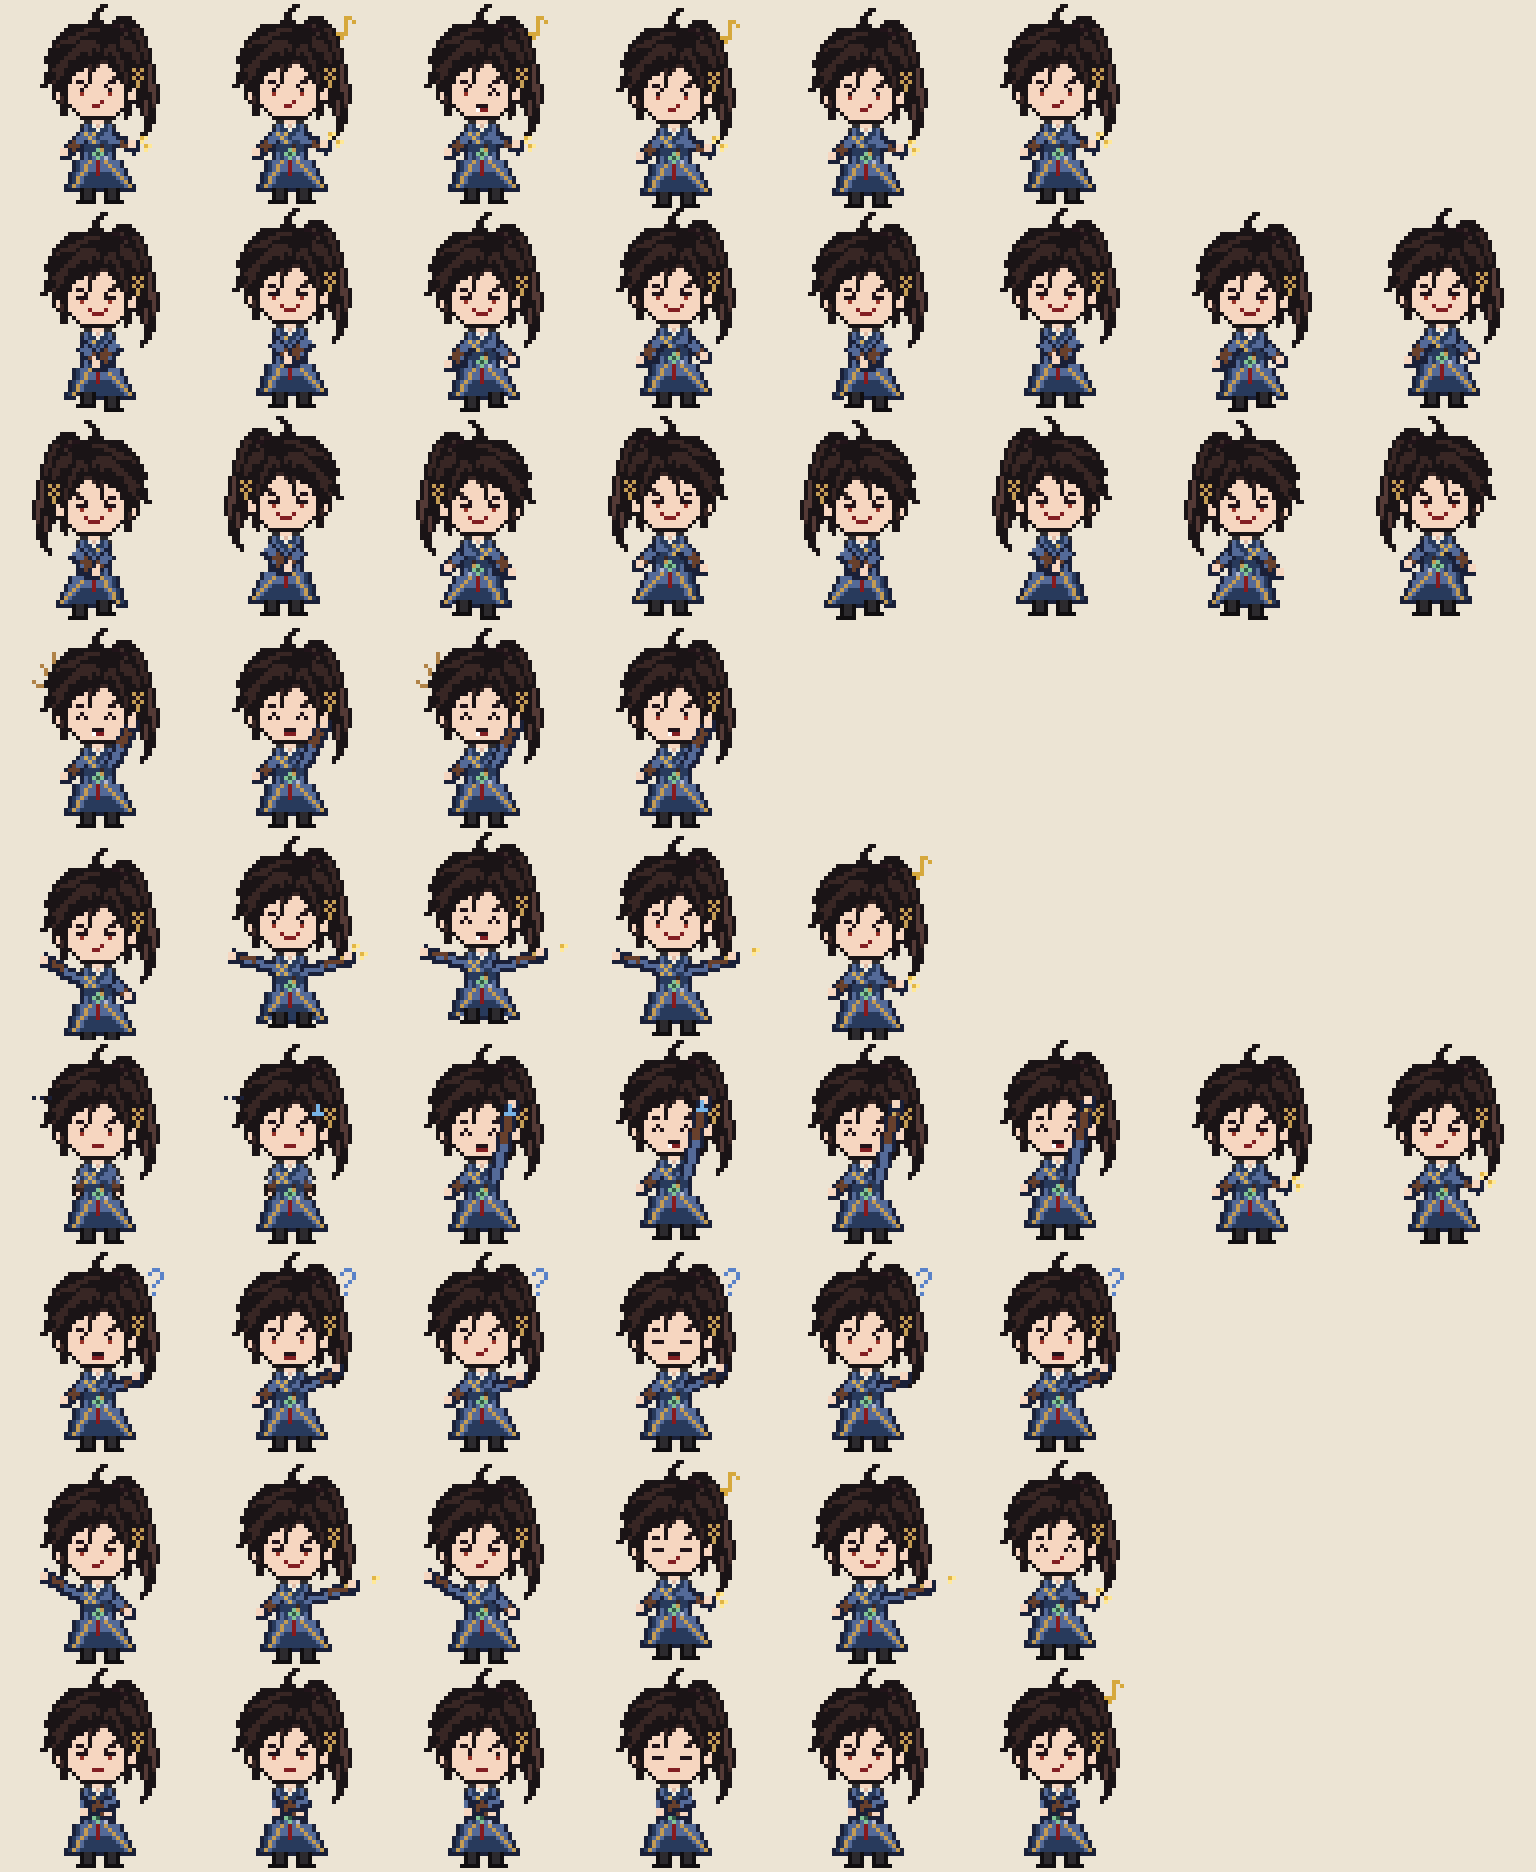
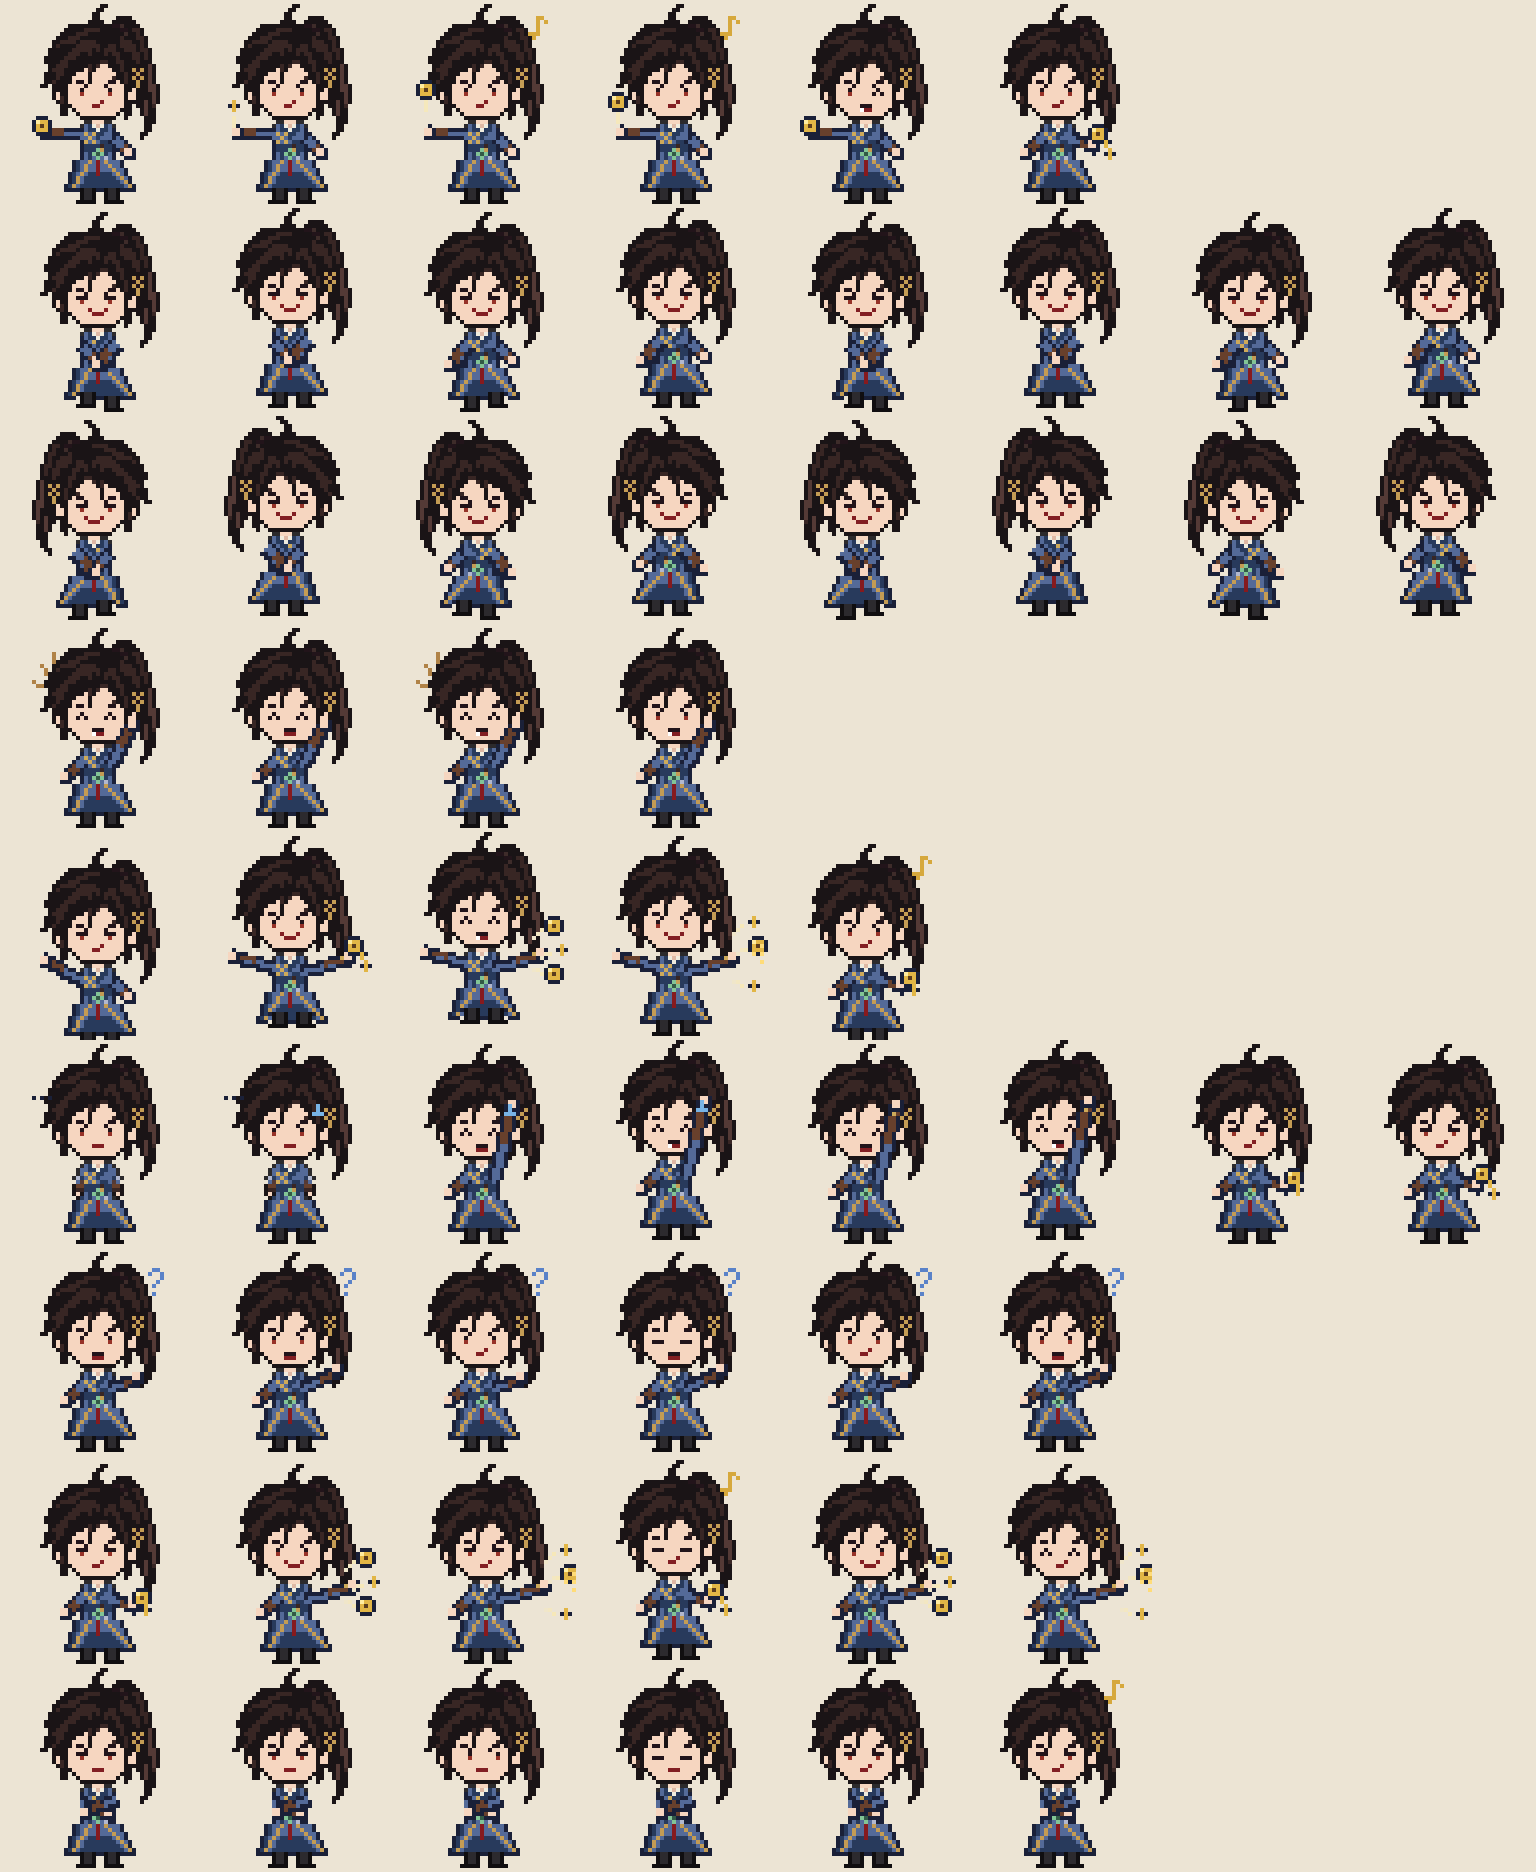
大師兄：金錢鏢畫成方孔金錢，加上彈錢、扇形散射與連發擲鏢
Claude-Session: https://claude.ai/code/session_014Ug96dnPv181rpAqSNBU9C

diff --git a/index.html b/index.html
@@ -180,10 +180,10 @@ cd mortal-pets && ./install.sh codex</pre>
 </main>
 
 <!-- ?v= 是版本號：更新角色資料時一起改，避免瀏覽器拿快取裡的舊檔配新網頁 -->
-<script src="claude-plugin/mortal-buddy/scripts/characters.js?v=0.3.10"></script>
-<script src="claude-plugin/mortal-buddy/scripts/locales/ja.js?v=0.3.10"></script>
-<script src="claude-plugin/mortal-buddy/scripts/locales/ko.js?v=0.3.10"></script>
-<script src="claude-plugin/mortal-buddy/scripts/locales/en.js?v=0.3.10"></script>
+<script src="claude-plugin/mortal-buddy/scripts/characters.js?v=0.3.11"></script>
+<script src="claude-plugin/mortal-buddy/scripts/locales/ja.js?v=0.3.11"></script>
+<script src="claude-plugin/mortal-buddy/scripts/locales/ko.js?v=0.3.11"></script>
+<script src="claude-plugin/mortal-buddy/scripts/locales/en.js?v=0.3.11"></script>
 <script>
   const BASE = window.MORTAL_CHARS;
   const { UPCOMING } = BASE;
@@ -435,7 +435,7 @@ cd mortal-pets && ./install.sh codex</pre>
     document.querySelectorAll("#tabs .tab").forEach((t) => t.setAttribute("aria-selected", t.dataset.id === id));
     const outfits = c.outfits || [{ id, name: "" }];
     const petId = outfits.some((o) => o.id === store.outfit[id]) ? store.outfit[id] : outfits[0].id;
-    sprite.style.backgroundImage = `url(codex/pets/${petId}/spritesheet.webp?v=0.3.10)`;
+    sprite.style.backgroundImage = `url(codex/pets/${petId}/spritesheet.webp?v=0.3.11)`;
     const ob = $("outfits");
     ob.innerHTML = "";
     ob.hidden = outfits.length < 2;

diff --git a/tools/build_sprites.py b/tools/build_sprites.py
@@ -1180,17 +1180,49 @@ def draw_bitmap_frame(c, pose):
     elif mouth == "o":
         put(24, 26, eye); put(24, 27, m)
 
-    # 道具：金錢鏢
+    # 道具：金錢鏢（方孔金錢）
+    gold, shine, hole = (226, 182, 70, 255), (255, 236, 160, 255), (90, 60, 30, 255)
+
+    def coin(cx, cy, edge=False):
+        if edge:  # 轉到側面時只剩一條細線
+            for y in (cy - 1, cy, cy + 1):
+                put(cx, y, gold)
+            put(cx - 1, cy, O); put(cx + 1, cy, O)
+            return
+        for x, y in ((cx - 1, cy - 2), (cx, cy - 2), (cx + 1, cy - 2), (cx - 1, cy + 2), (cx, cy + 2), (cx + 1, cy + 2),
+                     (cx - 2, cy - 1), (cx - 2, cy), (cx - 2, cy + 1), (cx + 2, cy - 1), (cx + 2, cy), (cx + 2, cy + 1)):
+            put(x, y, O)
+        for x in (cx - 1, cx, cx + 1):
+            for y in (cy - 1, cy, cy + 1):
+                put(x, y, gold)
+        put(cx, cy, hole); put(cx - 1, cy - 1, shine)
+
     prop = pose["prop"]
     if prop and prop[0] == "coins":
-        gold, shine = (226, 182, 70, 255), (255, 232, 150, 255)
         x, y = hands[1]
-        if prop[1] == "throw":
-            spots = ((5, -2), (9, -4), (13, -1))
-        else:
-            spots = ((2, -2), (3, 0)) if prop[1] == 0 else ((3, -1), (1, -3))
-        for ox, oy in spots:
-            put(x + ox, y + oy, gold); put(x + ox + 1, y + oy, shine); put(x + ox, y + oy + 1, shine)
+        if prop[1] == "throw":  # 擲出：三枚金錢鏢帶著殘影飛出去
+            k = prop[2] if len(prop) > 2 else 0
+            # 手邊空間不多，三枚排成扇形往上、前、下散開，後面拖著殘影
+            for i, (ox, oy) in enumerate(((3, -7), (5, -1), (3, 5))):
+                cx = min(45, x + ox + 2 * k)
+                cy = y + oy + (-2 * k if oy < 0 else 2 * k if oy > 0 else 0)
+                for t in range(1, 4):
+                    put(cx - 2 - t, cy - (oy // 4) * t // 2, (255, 236, 160, 170 - t * 40))
+                coin(cx, cy, edge=(i + k) % 2 == 1)
+            if k >= 1:  # 命中的火花
+                for ox, oy in ((0, -2), (0, 2), (-2, 0), (2, 0), (0, 0)):
+                    put(46 + min(0, ox), y - 1 + oy, (255, 220, 120, 255))
+        else:  # 指間夾著兩三枚，輪流轉動
+            fan = ((2, -2), (3, 1)) if prop[1] == 0 else ((3, -1), (1, -3), (4, 2))
+            for i, (ox, oy) in enumerate(fan):
+                coin(x + ox, y + oy, edge=(i + prop[1]) % 2 == 1)
+    elif prop and prop[0] == "coin_up":  # 用拇指把一枚金錢彈上去再接住
+        x, y = hands[0]  # 用沒被馬尾擋住的那隻手
+        h = prop[1]
+        coin(x - 1, y - 2 - h, edge=h == 5)
+        if h:
+            for t in range(1, min(h, 4)):
+                put(x - 1, y - 2 - h + 2 + t, (255, 236, 160, 120))
 
     # 效果
     for f in pose["fx"]:
@@ -1507,13 +1539,13 @@ def poses_weiju():
 def poses_tangbuyi():
     """大師兄（依 Q 版參考）：叉腰轉金錢鏢、豎指「有了！」、摸後腦大笑、抱胸、出掌擲鏢。"""
     return {
-        # 叉腰歪著頭，指間轉著金錢鏢，痞痞地笑、眨眼、哼小調
-        "idle": [P(arms=("hip", "hold"), prop=("coins", 0), mouth="smirk", tilt=1),
-                 P(arms=("hip", "hold"), prop=("coins", 1), mouth="smirk", tilt=1, fx=("note",)),
-                 P(arms=("hip", "hold"), prop=("coins", 0), eyes="wink", mouth="fang", tilt=1, fx=("note",)),
-                 P(arms=("hip", "hold"), prop=("coins", 1), mouth="smirk", dy=1, fx=("note",)),
-                 P(arms=("hip", "hold"), prop=("coins", 0), mouth="smirk", dy=1),
-                 P(arms=("hip", "hold"), prop=("coins", 1), mouth="smirk", hair_sway=1)],
+        # 叉腰歪著頭，用拇指把金錢彈上去再接住，接到了眨眼一笑
+        "idle": [P(arms=("beckon", "hip"), prop=("coin_up", 0), mouth="smirk", tilt=1),
+                 P(arms=("beckon", "hip"), prop=("coin_up", 5), mouth="smirk", tilt=1, eyes="look_up"),
+                 P(arms=("beckon", "hip"), prop=("coin_up", 9), mouth="smirk", tilt=1, eyes="look_up", fx=("note",)),
+                 P(arms=("beckon", "hip"), prop=("coin_up", 6), mouth="smirk", tilt=1, fx=("note",)),
+                 P(arms=("beckon", "hip"), prop=("coin_up", 0), eyes="wink", mouth="fang", tilt=1),
+                 P(arms=("hip", "hold"), prop=("coins", 1), mouth="smirk", tilt=1)],
         "running-right": run_row(mouth="grin", eyes="drowsy"),
         # 一手叉腰、一手豎起手指：「師弟，有了！」
         "waving": [P(arms=("hip", "up"), mouth="fang", eyes="happy", fx=("idea",)),
@@ -1523,8 +1555,8 @@ def poses_tangbuyi():
         # 飛俠：壓低身子出掌，一躍擲出金錢鏢
         "jumping": [P(dy=2, legs="crouch", arms=("thrust", "hip"), eyes="drowsy", mouth="smirk"),
                     P(dy=0, legs="tuck", arms=("spread", "thrust"), prop=("coins", 1), mouth="grin"),
-                    P(dy=-1, legs="tuck", arms=("spread", "thrust"), prop=("coins", "throw"), mouth="fang", eyes="happy"),
-                    P(dy=0, legs="stand", arms=("spread", "thrust"), prop=("coins", "throw"), mouth="grin"),
+                    P(dy=-1, legs="tuck", arms=("spread", "thrust"), prop=("coins", "throw", 0), mouth="fang", eyes="happy"),
+                    P(dy=0, legs="stand", arms=("spread", "thrust"), prop=("coins", "throw", 1), mouth="grin"),
                     P(dy=1, legs="crouch", arms=("hip", "hold"), prop=("coins", 0), mouth="smirk", fx=("note",))],
         # 失敗：愣住冒汗，接著摸著後腦哈哈大笑帶過
         "failed": [P(arms=("down", "down"), eyes="open", mouth="flat", fx=("speechless",)),
@@ -1542,13 +1574,13 @@ def poses_tangbuyi():
                     P(arms=("hip", "wave_mid"), eyes="blink", mouth="open", fx=("q",)),
                     P(arms=("hip", "ask"), eyes="open", mouth="smirk", fx=("q",), tilt=1),
                     P(arms=("hip", "wave_mid"), eyes="open", mouth="open", fx=("q",))],
-        # 工作中：拉開架式出掌、擲鏢
-        "running": [P(legs="crouch", arms=("thrust", "hip"), eyes="drowsy", mouth="smirk"),
-                    P(legs="crouch", arms=("hip", "thrust"), prop=("coins", "throw"), eyes="drowsy", mouth="grin", dx=1),
-                    P(legs="crouch", arms=("thrust", "hip"), eyes="drowsy", mouth="smirk"),
-                    P(arms=("hip", "hold"), prop=("coins", 0), eyes="closed", mouth="smirk", fx=("note",)),
-                    P(legs="crouch", arms=("hip", "thrust"), prop=("coins", "throw"), eyes="drowsy", mouth="grin", dx=1),
-                    P(arms=("hip", "hold"), prop=("coins", 1), eyes="happy", mouth="smirk")],
+        # 工作中：拉開架式，連發金錢鏢、命中冒火花
+        "running": [P(legs="crouch", arms=("hip", "hold"), prop=("coins", 0), eyes="drowsy", mouth="smirk"),
+                    P(legs="crouch", arms=("hip", "thrust"), prop=("coins", "throw", 0), eyes="open", mouth="grin", dx=1),
+                    P(legs="crouch", arms=("hip", "thrust"), prop=("coins", "throw", 1), eyes="drowsy", mouth="smirk", dx=1),
+                    P(arms=("hip", "hold"), prop=("coins", 1), eyes="closed", mouth="smirk", fx=("note",)),
+                    P(legs="crouch", arms=("hip", "thrust"), prop=("coins", "throw", 0), eyes="open", mouth="grin", dx=1),
+                    P(legs="crouch", arms=("hip", "thrust"), prop=("coins", "throw", 1), eyes="happy", mouth="smirk", dx=1)],
         # 審視：雙手抱胸，板著臉看，看完了才嘴角一勾
         "review": [P(arms=("cross", "cross"), eyes="drowsy", mouth="flat"),
                    P(arms=("cross", "cross"), eyes="drowsy", mouth="flat", tilt=1),
